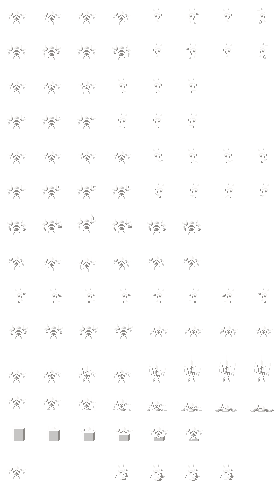
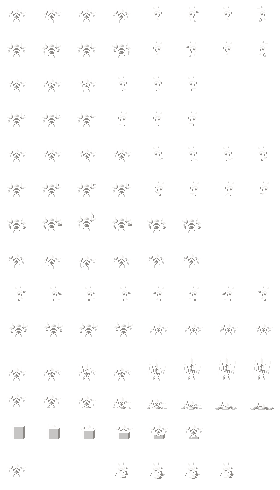
Vertical sprite fixes

diff --git a/README.md b/README.md
@@ -47,12 +47,12 @@ Mod order:
 			<li>Weapon rewards outside autoReward no longer overwrite autoReward drones and augments. Fixes events CRYSTAL_CACHE and DONOR_MANTIS_CHASE in rare cases, and event CRYSTAL_HELP_DIG now gives an augment and high scrap with the free weapon as intended.</li>
 			<li>Drone rewards outside autoReward no longer overwrite autoReward weapons and augments. Fixes event ZOLTAN_CREW_STUDY in rare cases.</li>
 		</ol>		
-		<li>CRYSTAL_CACHE, DISTRESS_INFESTATION, DISTRESS_TRAPPED_MINER, MERCHANT_REQUEST, ROCK_MANTIS_FREIGHTER, STATION_SICK: Fixed certain options having a chance of not consuming resources, if the reward after the choice includes that resource.</li>
+		<li>CRYSTAL_CACHE, DISTRESS_INFESTATION, DISTRESS_TRAPPED_MINER, MERCHANT_REQUEST, ROCK_MANTIS_FREIGHTER, STATION_SICK: Fixed certain options having a chance of not consuming resources, if the reward after the choice includes that resource. (I used a custom autoReward for this, ideally HS can fix this in the future so that they aren't required.)</li>
 	</ol>
 	<li>SHIPS:</li>
 	<ol>
-		<li>Rebel Disruptor (REBEL_FAT_DLC): Hacking max from 1 to 2</li>
 		<li>Pirate Mantis Interceptor (MANTIS_SCOUT_P_DLC): Highest sector it can appear from 5 to 6.</li>
+		<li>Rebel Disruptor (REBEL_FAT_DLC): Hacking max from 1 to 2</li>
 		<li>Pirate Slug Instigator (JELLY_TRUFFLE_P_DLC): Pilot max from 1 to 3</li>
 	</ol>
 </ol>
@@ -87,11 +87,11 @@ Mod order:
 	<li>Ship Upgrade Menu: Fixed misaligned Accept button base.</li>
 	<li>Shifted misaligned crew sprites:</li>
 	<ol>
-		<li>Crystal: 1 left</li>
-		<li>Engi: 1 left</li>
-		<li>Lanius: 1 right, except clone sprite which is shifted 1 left</li>
-		<li>Mantis: 1 left</li>
-		<li>Rock: 1 left</li>
+		<li>Crystal: 1 left, 2 up (except clone sprite: 1 left)</li>
+		<li>Engi: 1 left, 1 up</li>
+		<li>Lanius: 1 right, 2 up (except clone sprite: 1 left, 2 up)</li>
+		<li>Mantis: 1 left, 2 up</li>
+		<li>Rock: 1 left, 3 up (except clone sprite: 1 left, 1 up)</li>
 		<li>Slug: 1 right</li>
 	</ol>
 	<li>playerHpColorFix: HP color now scales according to a 3-third ratio instead of a hardcoded value.</li>
